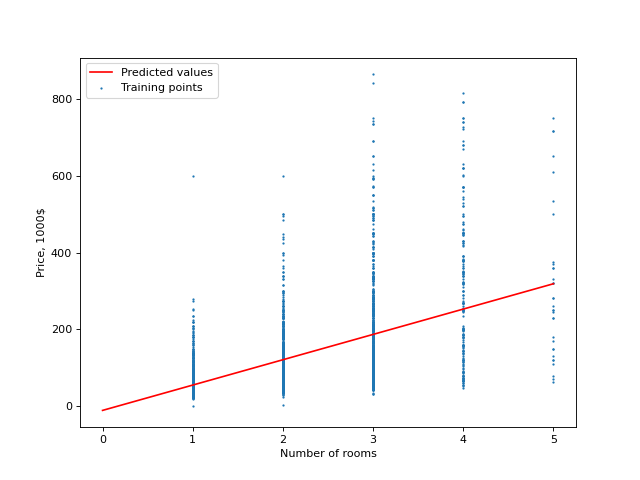
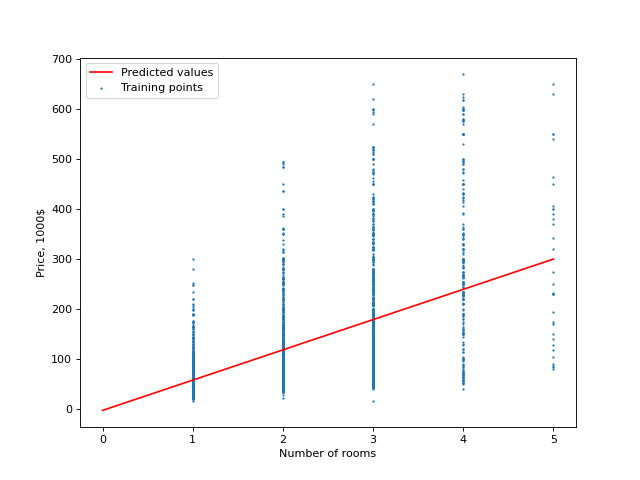
lil fixes

diff --git a/data_server/ml.py b/data_server/ml.py
@@ -24,7 +24,10 @@ def load_np_array(collection):
     codes = [REGION_CODES[region_name] for region_name in region_names]
     ads[:, REGION] = np.array(codes)
 
-    return remove_odd_value(sort_by_avg_region_price(ads))
+    ads = remove_odd_value(ads, AREA)
+    ads = remove_odd_value(ads, PRICE)
+    ads = remove_odd_value(ads, ROOMS)
+    return sort_by_avg_region_price(ads)
 
 
 def sort_by_avg_region_price(ads):
@@ -55,9 +58,10 @@ def find_region_name_by_code(given_code):
             return name
 
 
-def remove_odd_value(df):
+def remove_odd_value(df, prop_name):
     std_dev = 3
-    return df[(np.abs(stats.zscore(df)) < float(std_dev)).all(axis=1)]
+    z_scores = stats.zscore(df[:, prop_name])
+    return df[np.abs(z_scores) < std_dev]
 
 
 def create_linear_model(x, y):
@@ -76,10 +80,11 @@ def create_polynomial_model(x, y):
 def plot_image(x, y, model, x_axis_name, regression_type):
     # change xticks and dpi
     if x_axis_name == 'Region':
-        plt.figure(figsize=(40, 6), dpi=160)
-        labels = list(REGION_CODES.keys())
+        plt.figure(figsize=(15, 8), dpi=100)
+        labels = [l if len(l) < 10 else f'{l[:8]}..'
+                  for l in list(REGION_CODES.keys())]
         ticks = list(REGION_CODES.values())
-        plt.xticks(ticks, labels, fontsize=5)
+        plt.xticks(ticks, labels, fontsize=9, rotation=90)
     else:
         plt.figure(figsize=(8, 6), dpi=80)
     # set label for axix

diff --git a/data_server/cli.py b/data_server/cli.py
@@ -1,9 +1,9 @@
 import numpy as np
 from consolemenu import SelectionMenu
 
+from ml import load_np_array, create_linear_model, create_polynomial_model, \
+    plot_image, X_NAMES, PRICE, REGION, REGION_CODES
 from storage import get_collection
-from ml import load_np_array, remove_odd_value, create_linear_model, create_polynomial_model, \
-    plot_image, X_NAMES, PRICE, REGION, REGION_CODES, AREA, ROOMS
 
 collection = get_collection()
 ads = load_np_array(collection)

diff --git a/data_server/app.py b/data_server/app.py
@@ -1,10 +1,7 @@
-import os
-
 from flask import Flask, request
 
 from api_schema import AdSchema
 from storage import get_collection
-
 
 app = Flask(__name__)
 collection = get_collection()

diff --git a/README.md b/README.md
@@ -38,4 +38,21 @@ db.runCommand({shardCollection: "ads.ads", key: {price: 1}})
 ```shell script
 db.printShardingStatus()
 ```
+
+#####Replication instruction:
+```shell
+#Start the server as PRIMARY (master)
+mongod --dbpath /var/lib/mongo/my_database_1 --port 27001 --replSet My_Replica_Set --fork --logpath /var/log/mongodb/my_database_1.log
+#Start the server as SECONDARY (slave):
+mongod --dbpath /var/lib/mongo/my_database_2 --port 27002 --replSet My_Replica_Set --fork --logpath /var/log/mongodb/my_database_2.log
+#Start the server as an arbiter (which does not store data):
+mongod --dbpath /var/lib/mongo/my_database_3 --port 27003 --replSet My_Replica_Set --fork --logpath /var/log/mongodb/my_database_3.log
+```
+PRIMARY server settings:
+```shell
+mongo --host 127.0.0.1 --port 27001
+rs.initiate({"_id" : "My_Replica_Set", members : [ {"_id" : 0, priority : 3, host : "127.0.0.1:27001"}, {"_id" : 1, host : "127.0.0.1:27002"}, {"_id" : 2, host : "127.0.0.1:27003", arbiterOnly : true} ] });
+```
+As a result, the configured MongoDB will be available at `mongodb://127.0.0.1:27003`.
+
 Author: [Anna Horodchenko](https://t.me/goroanya)
